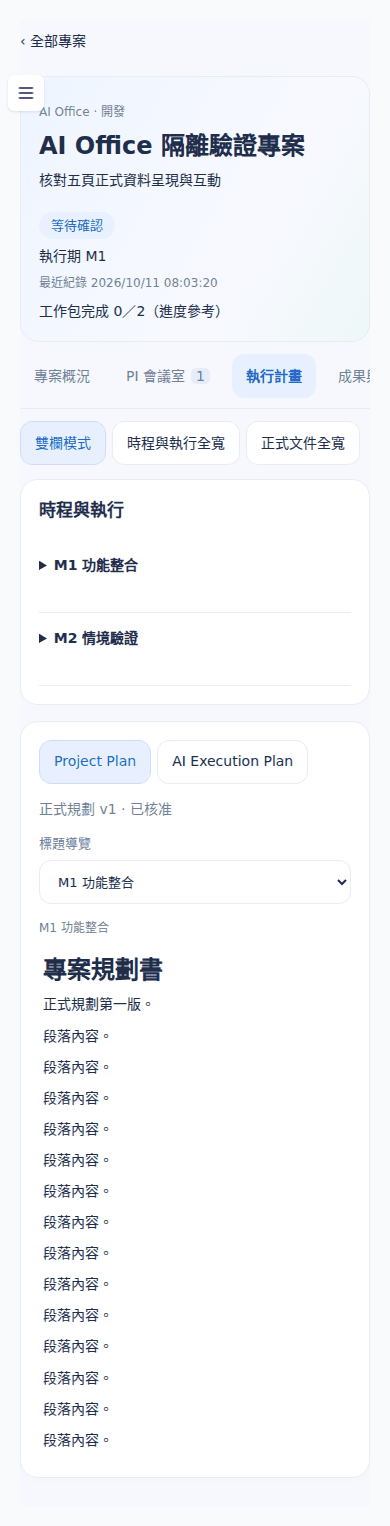
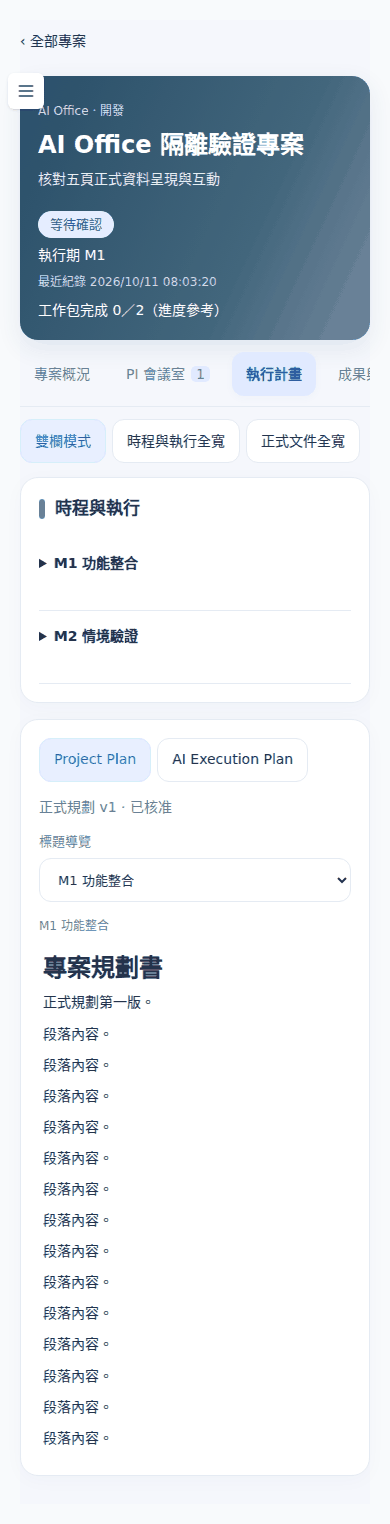
feat: complete AI Office project homepage and reference color palette

diff --git a/src/pages/ai-office-v1.css b/src/pages/ai-office-v1.css
@@ -13,3 +13,14 @@
 @media(prefers-reduced-motion:reduce){.ao-document{scroll-behavior:auto}}
 .ao-project{gap:12px}.ao-header{padding:20px}.ao h2{font-weight:700}.ao-overview-actions .cc5{padding-bottom:0;gap:0}.ao-dashboard .ao-card{min-height:200px}.ao-files{display:grid;grid-template-columns:repeat(2,minmax(0,1fr));gap:8px 16px;align-items:end}.ao-files label{margin:0}.ao-files>small,.ao-files>div,.ao-files>[role]{grid-column:1/-1}.ao-files>button{align-self:end;margin-bottom:0}.ao-project{background:var(--ao-surface)}
 @media(max-width:700px){.ao-files{grid-template-columns:1fr}.ao-header{padding:18px}.ao-dashboard .ao-card{min-height:0}}
+/* Reference palette: blue mountain hero, mint collaboration, violet knowledge,
+   warm amber human decisions. Color identifies content, never acceptance. */
+.ao{--ao-ink:#24334b;--ao-muted:#71849b;--ao-line:#e5ebf3;--ao-surface:#f5f7fc}
+.ao-home{gap:20px;background:var(--ao-surface)}.ao-home-top{display:grid;grid-template-columns:minmax(0,2.3fr) minmax(280px,1fr);gap:16px}.ao-home-hero{position:relative;isolation:isolate;overflow:hidden;border-radius:20px;min-height:285px;background:#2d5269;color:#fff;box-shadow:0 10px 30px #27476318}.ao-landscape{position:absolute;inset:0;width:100%;height:100%;z-index:-2}.ao-home-hero:after{content:'';position:absolute;inset:0;background:linear-gradient(90deg,#173c55ef,#23485a9c 60%,#30476318);z-index:-1}.ao-hero-content{padding:30px 34px}.ao-hero-kicker{font-size:11px;letter-spacing:2px;color:#cae5ef}.ao-home-hero h1{font-size:48px;letter-spacing:-1px;margin:10px 0 3px}.ao-hero-lead{font-size:21px;font-weight:600;letter-spacing:1px}.ao-home-hero p{color:#e1edf3;font-size:13px}.ao-home-hero .ao-hero-lead{font-size:21px;color:white}.ao-hero-steps{display:flex;gap:25px;flex-wrap:wrap;margin-top:24px}.ao-hero-steps span{display:flex;align-items:center;gap:10px;font-size:14px}.ao-hero-steps svg{width:30px;height:30px;padding:6px;background:#e9fff5;border-radius:9px;color:#419a91}
+.ao-home-section-head{display:flex;justify-content:space-between;gap:16px;align-items:center}.ao-home-section-head h2{margin:0}.ao-home-section-head button{display:flex;align-items:center;justify-content:center;gap:8px}.ao-home-summary{padding:22px}.ao-home-summary>.ao-home-section-head{margin-bottom:5px}.ao-home-stats{display:grid;grid-template-columns:1fr 1fr;gap:10px;margin-top:16px}.ao-stat{display:flex;align-items:center;gap:10px;background:#f5f7fb;padding:12px;border-radius:13px}.ao-stat small{font-size:11px}.ao-stat strong{display:block;font-size:24px;line-height:1.2;color:var(--ao-ink)}.ao-icon-tile{display:inline-flex;align-items:center;justify-content:center;width:44px;height:44px;border-radius:13px;background:var(--tone-bg,#e9f1ff);color:var(--tone-ink,#4179c7);flex-shrink:0}.ao-tone-blue{--tone-bg:#e8f1ff;--tone-ink:#3a7bbf;--tone-fill:#39a6d2}.ao-tone-mint{--tone-bg:#e2f7ee;--tone-ink:#36a48c;--tone-fill:#45b59a}.ao-tone-violet{--tone-bg:#eee8fb;--tone-ink:#8270bd;--tone-fill:#9b87d0}.ao-tone-amber{--tone-bg:#fff0de;--tone-ink:#d8904a;--tone-fill:#e4a45f}.ao-project-heading{margin-top:8px}.ao-project-heading p{margin:4px 0 0}.ao-home-controls{display:flex;justify-content:space-between;gap:16px;flex-wrap:wrap;align-items:center}.ao-home-search{position:relative;display:flex!important;align-items:center;gap:10px;margin:0!important;flex:1;max-width:420px;background:#fff;border:1px solid var(--ao-line);border-radius:13px;padding:0 14px}.ao-home-search input{margin:0;border:0;background:transparent;padding-left:0}.ao-home-controls [role=group]{display:flex;gap:6px;flex-wrap:wrap}.ao-home-controls [aria-pressed=true]{color:#2466db;background:#e6edff;border-color:#d1ddff}.ao-home-projects{display:grid;grid-template-columns:repeat(3,minmax(0,1fr));gap:16px}.ao .ao-project-card{display:block;text-align:left;padding:22px;background:#fff;border:1px solid var(--ao-line);box-shadow:0 4px 18px #29496506;border-radius:18px;min-width:0;transition:box-shadow .15s,border-color .15s}.ao .ao-project-card:hover{background:#fff;border-color:#b7cbe9;box-shadow:0 8px 24px #29496512}.ao-project-card-top{display:flex;align-items:center;justify-content:space-between;gap:8px}.ao-project-card h3{font-size:17px;margin:18px 0 6px}.ao-project-goal{color:#71849b;font-size:13px;min-height:44px;display:-webkit-box;-webkit-line-clamp:2;-webkit-box-orient:vertical;overflow:hidden}.ao-project-stage{display:flex;gap:8px;justify-content:space-between;font-size:12px;color:#657990;margin:16px 0}.ao-home-progress{padding:12px 0;border-top:1px solid var(--ao-line);font-size:12px}.ao-home-progress small{font-size:10px}.ao-progress-track{height:6px;border-radius:20px;background:#edf0f5;margin:10px 0;overflow:hidden}.ao-progress-track span{display:block;height:100%;background:var(--tone-fill);border-radius:20px}.ao-project-card-bottom{border-top:1px solid var(--ao-line);padding-top:12px;display:flex;justify-content:space-between;gap:12px;align-items:center}.ao-project-card-bottom>span{display:flex;align-items:center;color:#3674c3;white-space:nowrap;font-size:12px}.ao-project-card-bottom small{font-size:10px}.ao-home-empty{text-align:center;padding:40px;color:var(--ao-muted)}.ao-home-create .cc5-panel{background:#fff}
+.ao-header{background:linear-gradient(115deg,#294e68,#42667c 65%,#74889d);color:#fff;border:0;box-shadow:0 8px 24px #2c536619}.ao-header .ao-eyebrow,.ao-header small{color:#cbdee8}.ao-header .ao-pill{background:#e5edff;color:#325b99}.ao-header .ao-goal{color:#e6f0f4}.ao-card{box-shadow:0 4px 20px #36516d07}.ao-card>h2{display:flex;align-items:center;gap:10px}.ao-card>h2:before{content:'';display:block;width:6px;height:20px;border-radius:5px;background:#5c95cf;flex-shrink:0}.ao-dashboard .ao-card:nth-child(2)>h2:before{background:#55b49b}.ao-dashboard .ao-card:nth-child(3)>h2:before{background:#6a9dd4}.ao-dashboard .ao-card:nth-child(4)>h2:before{background:#e9aa60}.ao-dashboard .ao-card:nth-child(5)>h2:before{background:#9d89cf}.ao-dashboard .ao-card:nth-child(6)>h2:before{background:#60b8b1}.ao-needs{background:linear-gradient(145deg,#fff,#fff9f1)}.ao-meeting-support .ao-card:last-child{background:linear-gradient(140deg,#fff,#f7f3ff)}.ao-meeting-support .ao-card:last-child>h2:before{background:#9a82c9}.ao-files{background:linear-gradient(135deg,#f8fcfb,#fbfaff)}.ao-work-pane>h2:before{background:#45ad99}.ao-document-pane>h2:before{background:#9880cb}.ao-package{background:#f0f8f6;border-left:3px solid #71bcac}.ao-results>.ao-card:nth-child(2)>h2:before{background:#57b4ae}.ao-results>.ao-card:nth-child(3)>h2:before{background:#a18ace}.ao-journal li{border-left:2px solid #e6e0f3;padding-left:18px;position:relative}.ao-journal li:before{content:'';position:absolute;left:-5px;top:27px;width:8px;height:8px;border-radius:50%;background:#ab98cc}.ao-tabs button[aria-current=page]{background:#e1eaff;color:#245cbe;box-shadow:0 2px 8px #346cca09}
+@media(max-width:1150px){.ao-home-projects{grid-template-columns:repeat(2,minmax(0,1fr))}.ao-home-top{grid-template-columns:minmax(0,1.7fr) minmax(275px,1fr)}.ao-hero-content{padding:26px}.ao-hero-steps{gap:15px}}
+@media(max-width:800px){.ao-home-top{grid-template-columns:1fr}.ao-home-hero{min-height:260px}.ao-home-stats{grid-template-columns:repeat(4,minmax(0,1fr))}.ao-stat{flex-direction:column;align-items:flex-start}.ao-home-controls{align-items:stretch}.ao-home-search{max-width:none}.ao-home-projects{grid-template-columns:1fr}.ao-home-hero h1{font-size:40px}}
+@media(max-width:480px){.ao-home-stats{grid-template-columns:repeat(2,minmax(0,1fr))}.ao-stat{flex-direction:row}.ao-home-section-head{align-items:flex-start}.ao-hero-content{padding:24px}.ao-hero-steps{gap:12px}.ao-hero-steps span{font-size:12px;gap:6px}.ao-project-heading{flex-wrap:wrap}.ao-home-search{flex-basis:100%}}
+@media(prefers-reduced-motion:reduce){.ao .ao-project-card{transition:none}}
+.ao-stat{padding:10px;gap:8px}.ao-stat .ao-icon-tile{width:36px;height:36px;border-radius:11px}.ao-stat small{font-size:10px;white-space:nowrap}.ao-project-card h3{font-weight:600}

diff --git a/src/pages/OfficeHome.jsx b/src/pages/OfficeHome.jsx
@@ -1,0 +1,34 @@
+import {useState} from 'react'
+import {FolderKanban, Plus, Search, RefreshCw, Workflow, Users, FileCheck2, ArrowUpRight, MessageSquare, Layers} from 'lucide-react'
+import {progress, PROJECT_STATUS} from '../lib/aiOffice.mjs'
+
+const filters=[['all','全部專案'],['active','進行中'],['open','待我處理'],['completed','已完成']]
+const date=value=>value?new Date(value*1000).toLocaleString('zh-TW',{hour12:false}):'尚未記錄更新時間'
+export default function OfficeHome({projects,details,inbox,loaded,error,creating,onReload,onCreate,onSelect,creation,registry}){
+  const [query,setQuery]=useState(''),[filter,setFilter]=useState('all')
+  const actions=inbox.filter(a=>a.project_id && ['owner','HY'].includes(a.assigned_to))
+  const pending=id=>actions.filter(a=>a.project_id===id).length
+  const packages=Object.values(details).flatMap(d=>d?.packages || [])
+  const running=packages.filter(p=>p.status==='RUNNING' && p.type!=='PROJECT_REPORT').length
+  const completed=projects.filter(p=>p.status==='completed').length
+  const visible=projects.filter(p=>(!query.trim() || `${p.title} ${p.goal || ''}`.toLowerCase().includes(query.trim().toLowerCase())) && (filter==='all'||filter==='completed'&&p.status==='completed'||filter==='active'&&p.status!=='completed'||filter==='open'&&pending(p.id)>0))
+  const missing=projects.length-Object.values(details).filter(Boolean).length
+  const stats=[{name:'專案總數',value:projects.length,Icon:FolderKanban,tone:'blue'},{name:'執行中工作包',value:running,Icon:Workflow,tone:'mint'},{name:'待我處理',value:actions.length,Icon:MessageSquare,tone:'amber'},{name:'已完成專案',value:completed,Icon:FileCheck2,tone:'violet'}]
+  return <section className="ao-home cc5" aria-label="AI Office 專案總表">
+    <div className="ao-home-top">
+      <header className="ao-home-hero">
+        <svg className="ao-landscape" viewBox="0 0 900 360" preserveAspectRatio="xMidYMid slice" aria-hidden="true"><defs><linearGradient id="office-sky" x2="1" y2="1"><stop stopColor="#547c9a"/><stop offset="1" stopColor="#c9c6d9"/></linearGradient></defs><rect width="900" height="360" fill="url(#office-sky)"/><path d="M220 330L430 140 515 204 638 68 775 228 900 158V360H220Z" fill="#7192aa"/><path d="M290 360L480 234 564 258 679 170 817 292 900 248V360Z" fill="#426f83"/><path d="M0 360L208 279 375 327 535 282 732 329 900 288V360Z" fill="#28586b"/></svg>
+        <div className="ao-hero-content"><span className="ao-hero-kicker">HY LIFE OS · AI × HUMAN</span><h1>AI Office</h1><p className="ao-hero-lead">你的 AI 團隊辦公室</p><p>從想法到成果，與 PI 和專家團隊一起推進每個目標。</p><div className="ao-hero-steps"><span><Layers/>規劃</span><span><Users/>協作</span><span><Workflow/>執行</span><span><FileCheck2/>審查</span></div></div>
+      </header>
+      <section className="ao-card ao-home-summary"><div className="ao-home-section-head"><h2>工作摘要</h2><button aria-label="重新整理專案" onClick={onReload}><RefreshCw size={16}/></button></div><small>來自正式專案與工作包紀錄</small><div className="ao-home-stats">{stats.map(({name,value,Icon,tone})=><div key={name} className={`ao-stat ao-tone-${tone}`}><span className="ao-icon-tile"><Icon size={20}/></span><div><small>{name}</small><strong>{loaded&&!error&&!(name==='執行中工作包'&&missing)?value:'—'}</strong></div></div>)}</div>{missing>0&&!error&&<small>有 {missing} 個專案詳情未讀取；工作包數量尚不完整。</small>}</section>
+    </div>
+    {error&&<div role="alert"><p>{error}</p><button onClick={onReload}>重試讀取</button></div>}
+    <div className="ao-home-section-head ao-project-heading"><div><h2>我的專案</h2><p className="ao-muted">進入專案，查看規劃、協作、成果與工作歷程。</p></div><button className="ao-primary" aria-expanded={creating} onClick={onCreate}><Plus size={18}/>新增專案</button></div>
+    {creation&&<div className="ao-home-create">{creation}</div>}
+    {registry}
+    <div className="ao-home-controls"><label className="ao-home-search"><Search size={18}/><input type="search" aria-label="搜尋專案" placeholder="搜尋專案名稱或目標" value={query} onChange={e=>setQuery(e.target.value)}/></label><div role="group" aria-label="篩選專案">{filters.map(([key,label])=><button key={key} aria-pressed={key===filter} onClick={()=>setFilter(key)}>{label}</button>)}</div></div>
+    {!loaded&&<p role="status">正在讀取正式專案…</p>}
+    {loaded&&!error&&!visible.length&&<div className="ao-card ao-home-empty"><FolderKanban/><h3>{projects.length?'沒有符合條件的專案':'開始你的第一個專案'}</h3><p>{projects.length?'調整搜尋或篩選，找到需要的專案。':'提供目標，交由既有 PI 與工作包流程進行規劃。'}</p></div>}
+    <div className="ao-home-projects">{visible.map((p,i)=>{const detail=details[p.id],count=detail?progress(detail):null,open=pending(p.id);return <button className={`cc5-project ao-project-card ao-tone-${['blue','mint','violet','amber'][i%4]}`} key={p.id} onClick={()=>onSelect(p.id)}><div className="ao-project-card-top"><span className="ao-icon-tile"><FolderKanban size={24}/></span><span className="ao-pill">{PROJECT_STATUS[p.status]||p.status}</span></div><h3>{p.title}</h3><p className="ao-project-goal">{p.goal||'目標尚未記錄'}</p><div className="ao-project-stage"><span>{p.phase} {p.milestone_id||''}</span><span>負責 {({hy:'HY',sam:'Sam',family:'小因','950157':'950157'})[p.owner_bot]||p.owner_bot}</span></div><div className="ao-home-progress"><span>{count?`工作包完成 ${count.done}／${count.total}`:'工作包詳情未讀取'}</span>{count?.total>0&&<div className="ao-progress-track" aria-label={`工作包完成 ${count.done}／${count.total}`}><span style={{width:`${count.done/count.total*100}%`}}/></div>}<small>工作包計數，不代表正式驗收</small></div><div className="ao-project-card-bottom"><small>{open?`${open} 項待我處理`:date(detail?.updated_at)}</small><span>進入專案 <ArrowUpRight size={16}/></span></div></button>})}</div>
+  </section>
+}

diff --git a/src/pages/ControlCenterV5.jsx b/src/pages/ControlCenterV5.jsx
@@ -111,7 +111,7 @@ function Bar({ done, total }) {
   </div>
 }
 
-export default function ControlCenterV5({ renderProject, title = 'AI Work 控制中心', loadData = loadControlCenter } = {}) {
+export default function ControlCenterV5({ renderProject, renderHome, title = 'AI Work 控制中心', loadData = loadControlCenter } = {}) {
   const [projects, setProjects] = useState([])
   const [details, setDetails] = useState({})
   const [inbox, setInbox] = useState([])
@@ -167,6 +167,11 @@ export default function ControlCenterV5({ renderProject, title = 'AI Work 控制
   const visible = projects
     .filter(p => filter === 'all' || (filter === 'open' ? openByProject[p.id] : filter === 'completed' ? p.status === 'completed' : p.status !== 'completed'))
     .sort((a, b) => rank(a) - rank(b))
+
+  if (renderHome) return renderHome({projects,details,inbox,loaded,error,creating,onReload:loadAll,
+    onCreate:()=>setCreating(v=>!v),onSelect:id=>{setOpenId(id);setTab('overview')},
+    creation:creating && <NewProject onCancel={()=>setCreating(false)} onCreated={async id=>{setCreating(false);await loadAll();setOpenId(id);setTab('overview')}}/>,
+    registry:inbox.some(i=>i.action_type==='MODULE_ACCEPTANCE') && <section className="hy"><div className="hy-card needs-you"><h2 className="hy-card-title">系統模組待你驗收</h2><Inbox items={inbox.filter(i=>i.action_type==='MODULE_ACCEPTANCE')} project={null} onChanged={loadAll} setError={setError}/></div></section>})
 
   return <section className="cc5" aria-labelledby="cc5-title">
     <header className="cc5-head">

diff --git a/src/pages/AIOfficeV1.jsx b/src/pages/AIOfficeV1.jsx
@@ -5,6 +5,7 @@ import ControlCenterV5, { Inbox, DeleteZone, SpecChangeBox } from './ControlCent
 import { request } from '../aiWorkV5Data'
 import { authHeaders, ensureAccessToken, expireSession } from '../auth'
 import { OFFICE_TABS, PROJECT_STATUS, PACKAGE_STATUS, progress, milestones, journal, safeUrl, driveFile } from '../lib/aiOffice.mjs'
+import OfficeHome from './OfficeHome'
 import './ai-office-v1.css'
 
 const base = (import.meta.env.VITE_API_BASE || '').replace(/\/$/, '')
@@ -25,7 +26,7 @@ function Empty({ children }) { return <p className="ao-empty">{children}</p> }
 function Markdown({ value }) { return value ? <ReactMarkdown remarkPlugins={[remarkGfm]} skipHtml components={{a: ({href,children}) => <Link href={href}>{children}</Link>}}>{value}</ReactMarkdown> : <Empty>正式文件尚未提供。</Empty> }
 
 export default function AIOfficeV1() {
-  return <div className="ao"><ControlCenterV5 title="AI Office" loadData={loadOffice} renderProject={({project,onBack,onDeleted}) => <OfficeProject key={project.id} id={project.id} onBack={onBack} onDeleted={onDeleted} />} /></div>
+  return <div className="ao"><ControlCenterV5 title="AI Office" loadData={loadOffice} renderHome={props=><OfficeHome {...props}/>} renderProject={({project,onBack,onDeleted}) => <OfficeProject key={project.id} id={project.id} onBack={onBack} onDeleted={onDeleted} />} /></div>
 }
 
 async function loadOffice() {

diff --git a/docs/quality/ai-office-v1/README.md b/docs/quality/ai-office-v1/README.md
@@ -36,3 +36,11 @@ ControlCenterV5 保留預設行為，新增可選 project renderer、loader、ti
 這份 PR 是完整五頁前台與已存在能力的正式串接，以上尚無後端能力的項目保留未就緒，不能宣稱 AI Office 或三引擎已正式驗收。
 
 本機驗證：後端 476 passed（5 項既有 deprecation warning）；前端 43 passed、Build 通過，三組 browser regression 通過。PLAN_APPROVAL／CODE_REVIEW 的核准契約不接受附件，本頁不提供會被忽略的附件提交；補充資料改由既有 suggestions 交接。CI 結果以 PR Checks 為準。
+
+## HY 審查修訂：首頁與配色
+
+AI Office 入口新增 `OfficeHome.jsx` 專案總表：山景深藍主視覺、真實專案/工作包/待處理/完成數摘要、名稱與 Goal 搜尋、四種篩選、正式專案卡片及既有 NewProject 表單。專案詳情讀取不完整時不顯示完整工作包數；API 失敗不保留假狀態。共用 ControlCenterV5 只增加可選 renderHome，原預設行為不改；global Module Registry 驗收入口保留。
+
+五頁沿用定案布局，增加深藍頁首、青綠/淡紫/暖橘內容色彩與輕微陰影，色彩不表示正式核准。首頁不複製專家團/知識庫或假今日完成資料。新增 `00-home-1280.png` 與 `00-home-390.png`，以及更新五頁截圖，全部為隔離工程 fixture。
+
+Browser 回歸新增首頁搜尋、篩選、NewProject 展開/取消、390/1280 響應式及進入專案；正式建立、刪除與核准仍使用既有契約。此次只更新 PR #79，不合併、不部署。
